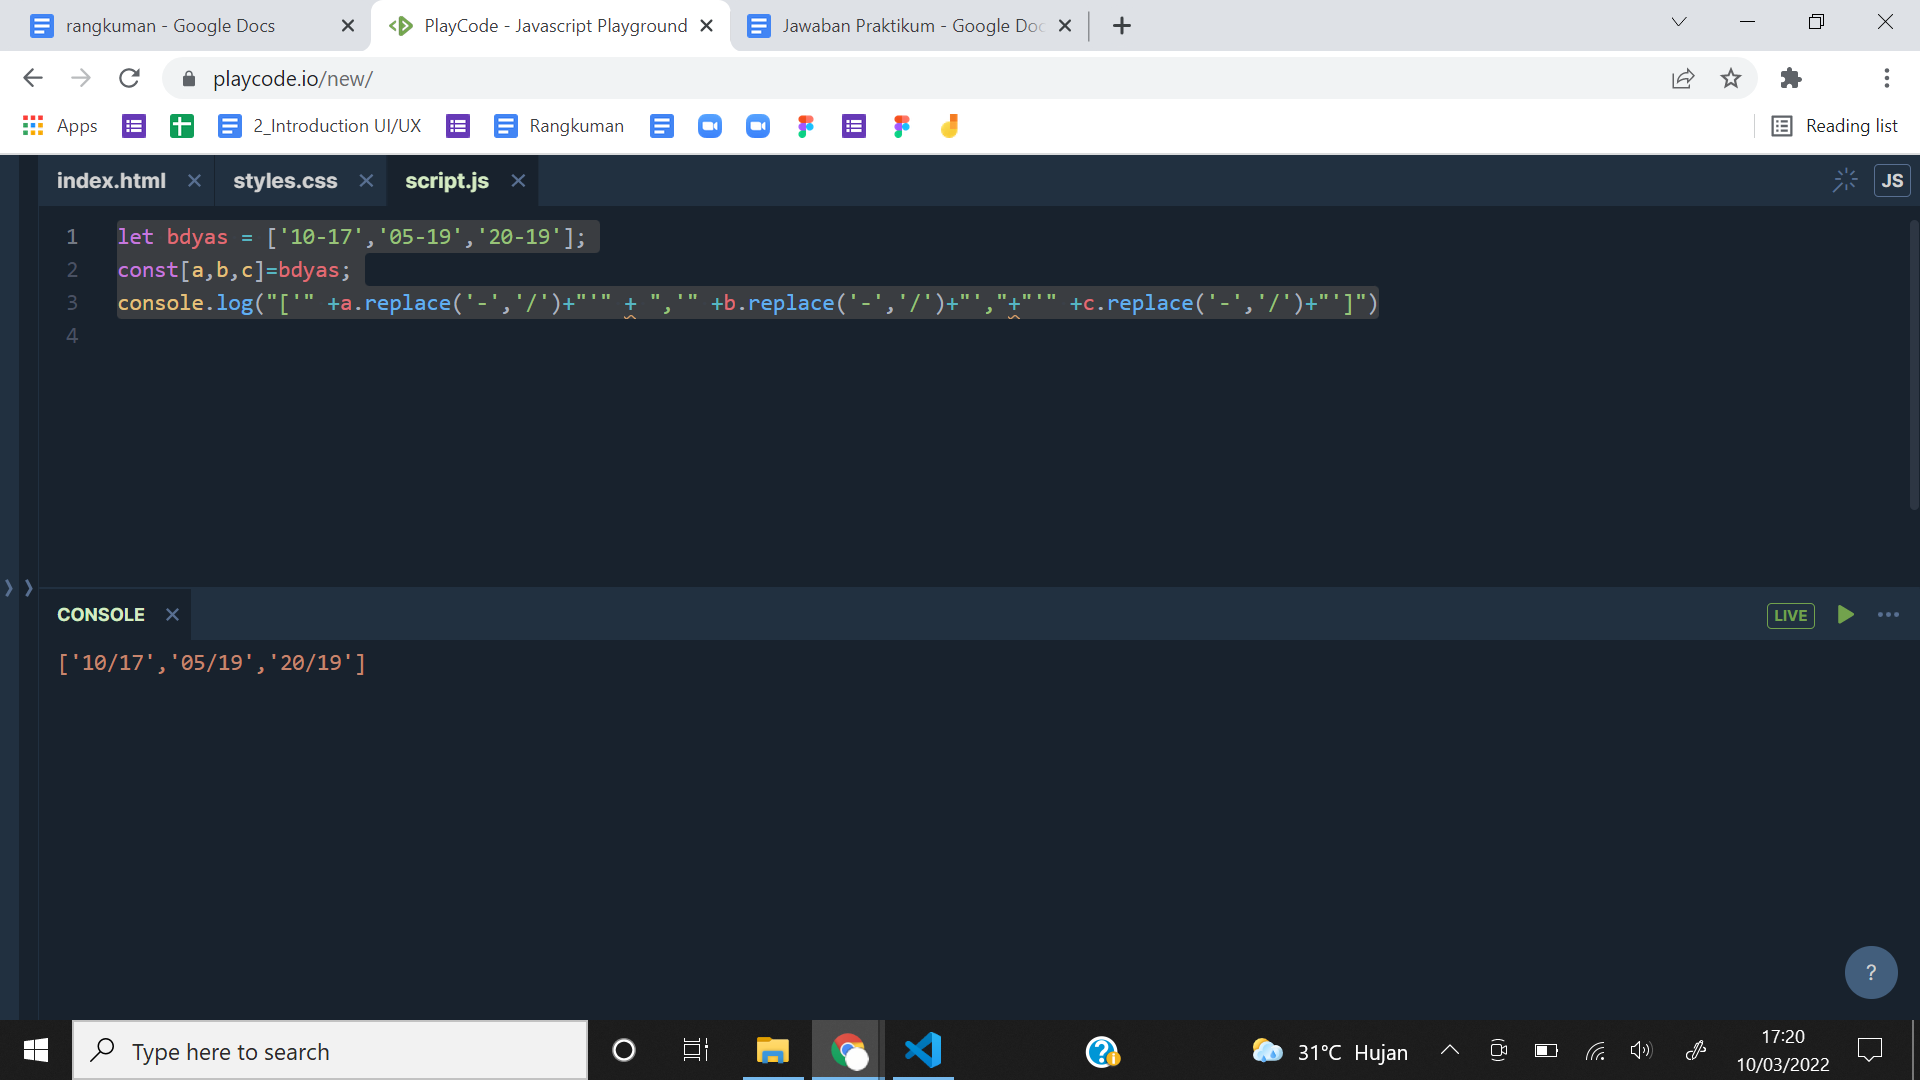
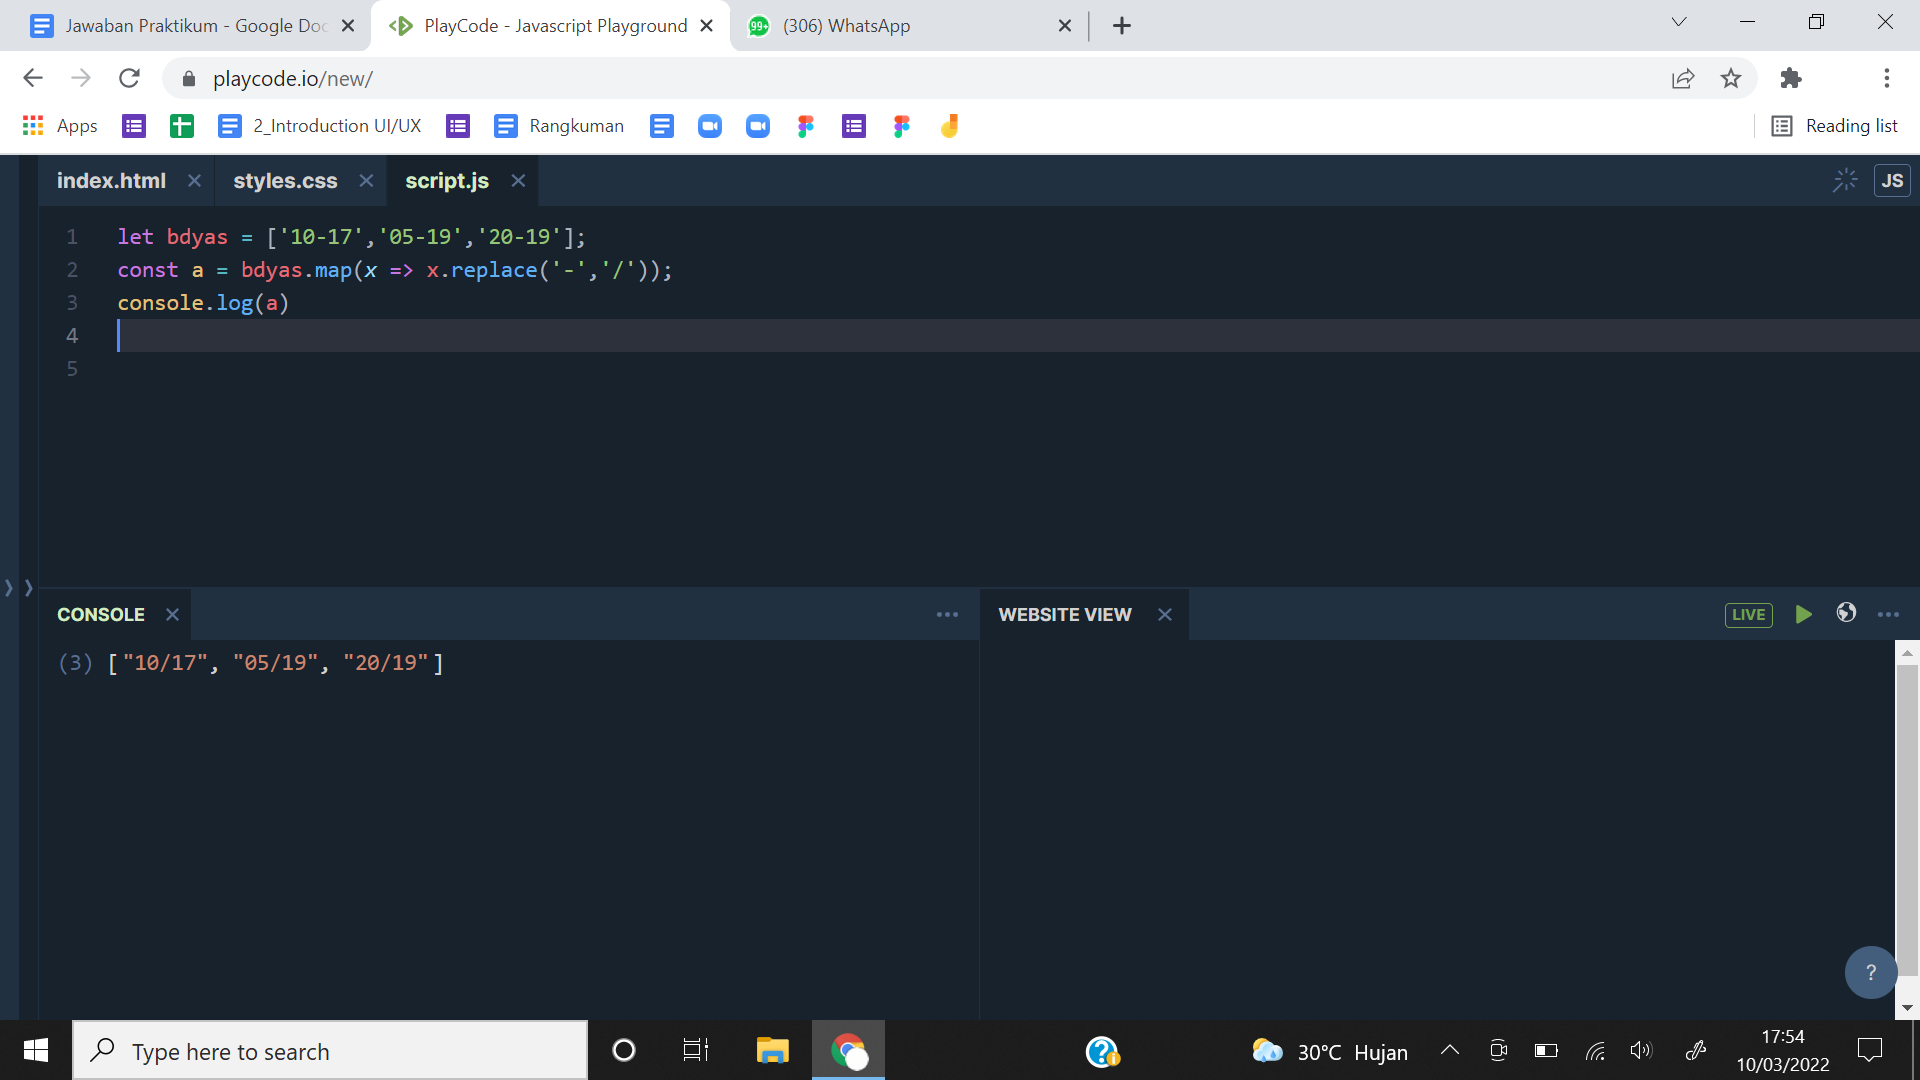
push

diff --git a/8_Javascript Refreshment/praktikum/4.js b/8_Javascript Refreshment/praktikum/4.js
@@ -1,3 +1,3 @@
 let bdyas = ['10-17','05-19','20-19'];
-const[a,b,c]=bdyas;
-console.log("['" +a.replace('-','/')+"'" + ",'" +b.replace('-','/')+"',"+"'" +c.replace('-','/')+"']")
+const a = bdyas.map(item => item.replace('-','/'));
+console.log(a)
